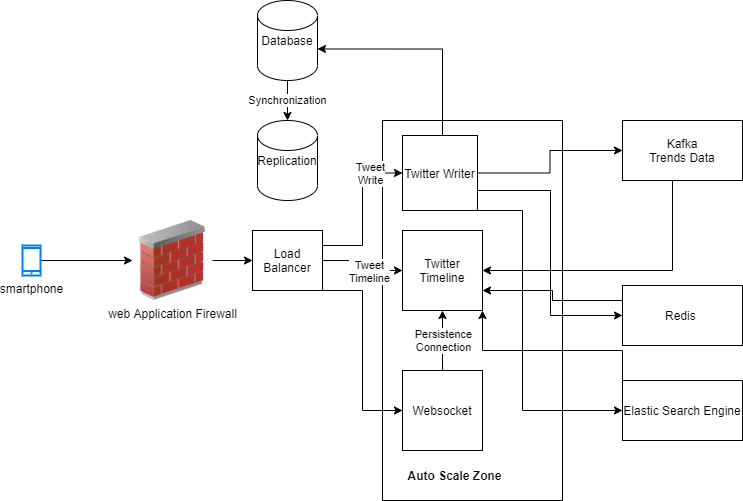
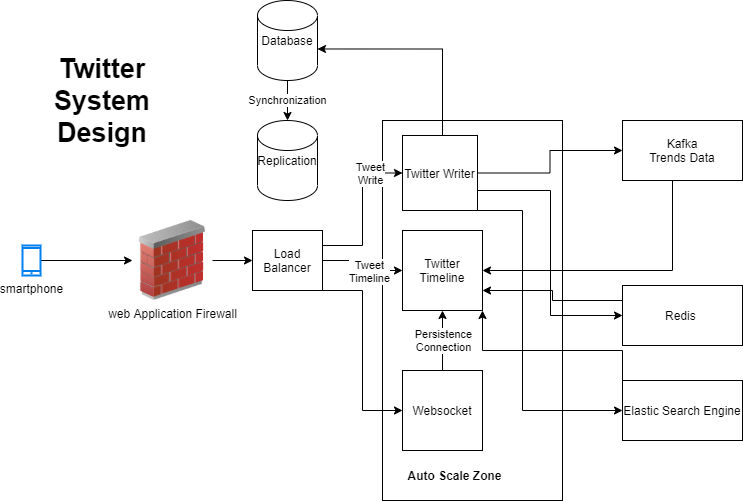
update image

Changed region(s): [[0.0619, 0.1198, 0.2167, 0.2994]]

diff --git a/README.md b/README.md
@@ -11,6 +11,4 @@ Pada repo ini penulis membuat beberapa contoh design aplikasi seperti :
 
 #### Screenshoot
 
-1. Twitter Design System
-
 ![twitter](images/twitter.png "twitter")
